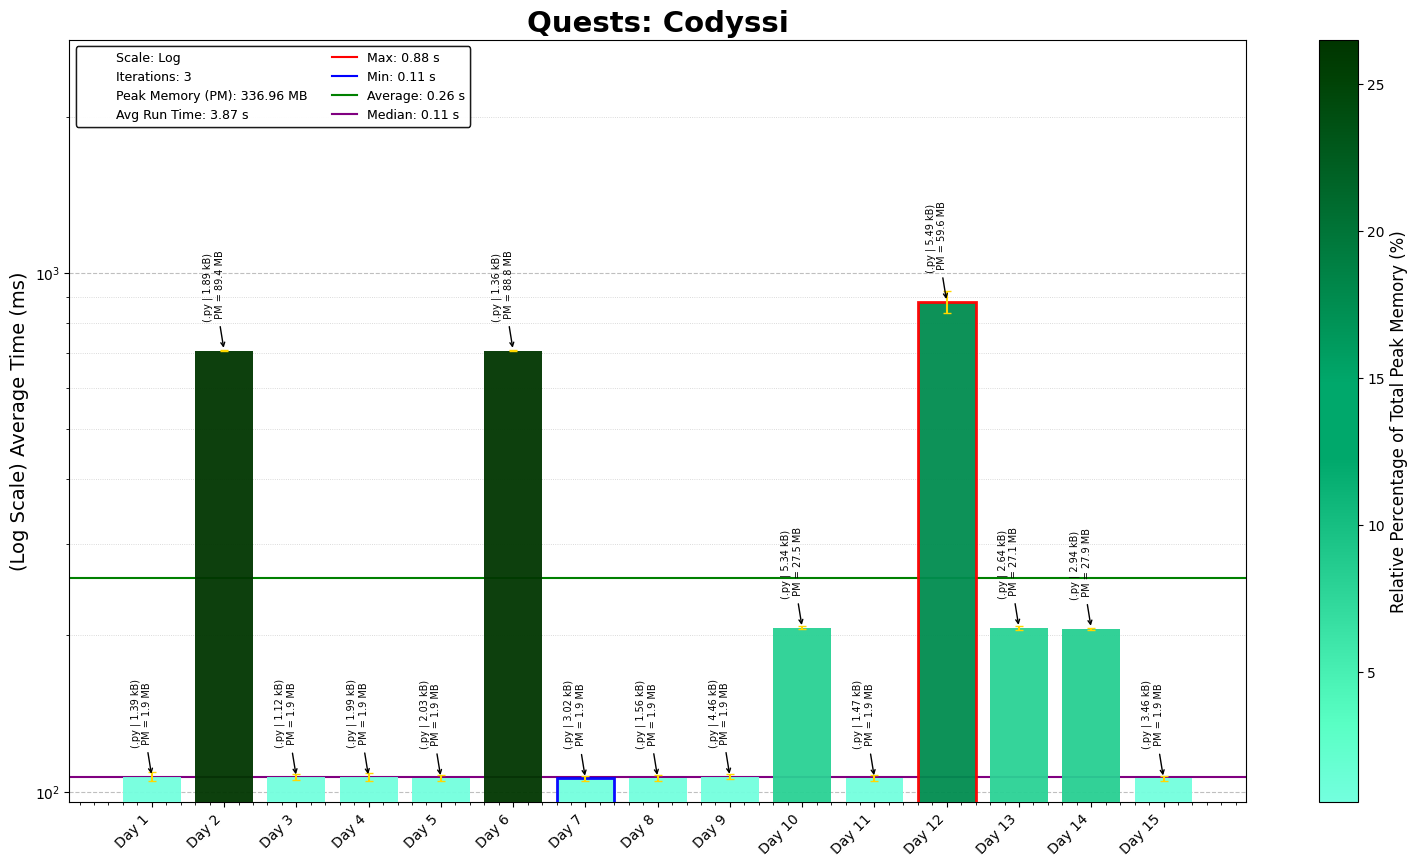
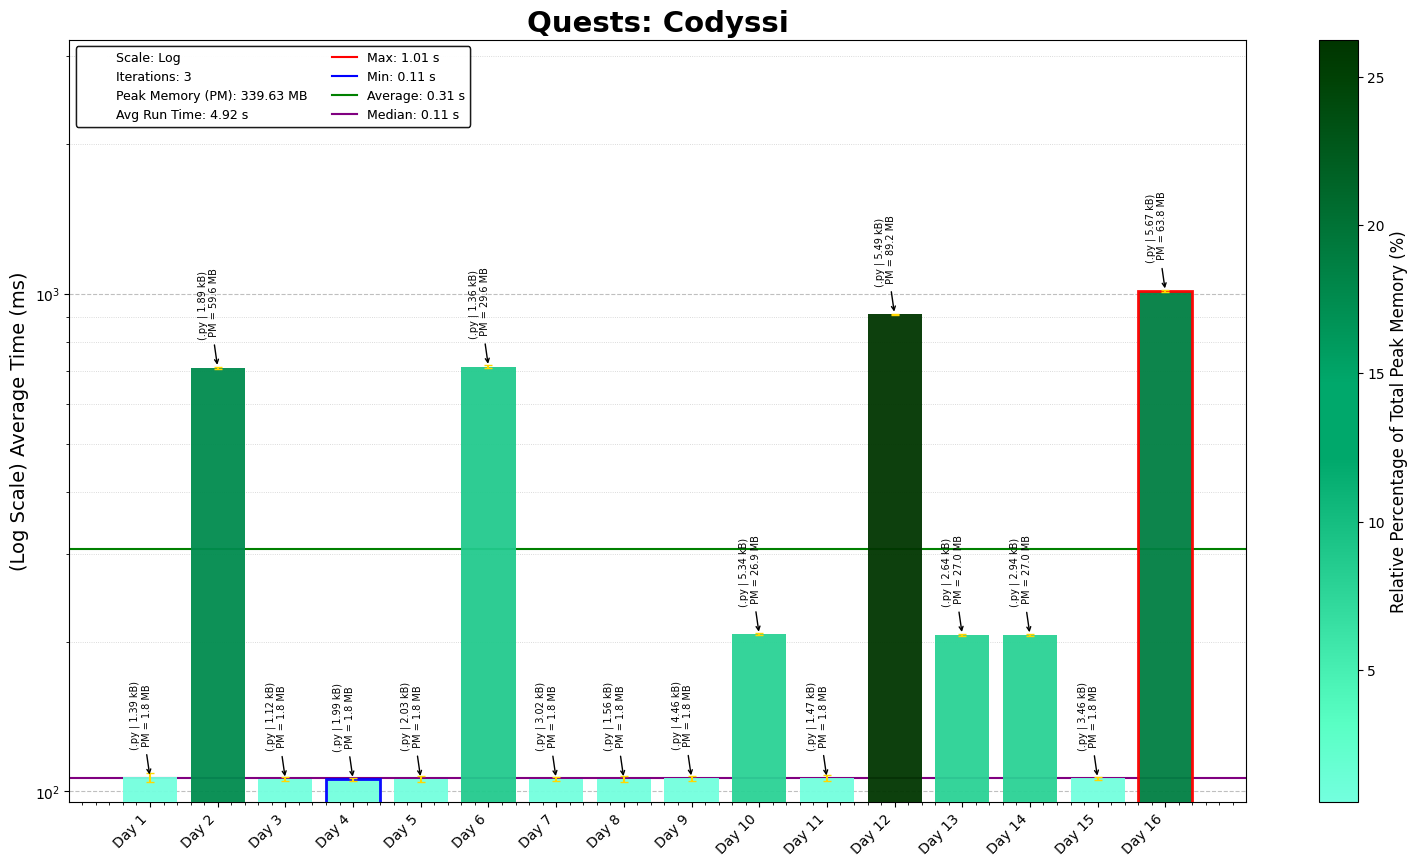
Codyssi Day 16 P1

diff --git a/Codyssi/2025/16/CodyssiDay16.py b/Codyssi/2025/16/CodyssiDay16.py
@@ -14,21 +14,25 @@ import matplotlib.pyplot as plt
 start_time = time.time()
 
 # Load the input data from the specified file path
-D16_file = "Day16_input1.txt"
+D16_file = "Day16_input.txt"
 D16_file_path = os.path.join(os.path.dirname(os.path.abspath(__file__)), D16_file)
 
 # Read and sort input data into a grid
 with open(D16_file_path) as file:
     input_data = file.read().strip().split('\n\n')
-    cube_faces = input_data[0].split('\n')
+    instructions = input_data[0].split('\n')
     directions = input_data[1].split('\n')[0]
 
 class MindCube:
     def __init__(self, cube_faces: list[str], size: tuple):
+        self.instructions = self.parse_input(cube_faces)
+        cube_faces = {}
+        for face in range(1, 6 + 1):
+            cube_faces[face] = {(row, col): 1
+                                for row in range(1, size[0] + 1)
+                                for col in range(1, size[1] + 1)}
+        self.cube_faces = cube_faces
         self.CUBE_SIZE = size
-        self.cube_face = self.parse_input(cube_faces)
-        self.base_cube = {(face, row, col): 1 for face in range(1, size[0] + 1)
-                        for row in range(size[1]) for col in range(size[2])}
 
     @staticmethod
     def parse_input(input_faces):
@@ -41,47 +45,90 @@ class MindCube:
                 cube_list.append((parts[0], int(parts[1]), int(parts[-1])))
         return cube_list
 
-    def get_adjacent_face(self, current: int, twist: str):
-        
-        faces_dict = {
-            1:{"L":5, "R":6, "U":4, "D":2},
-            2:{"L":5, "R":6, "U":1, "D":3},
-            3:{"L":5, "R":6, "U":2, "D":4},
-            4:{"L":5, "R":6, "U":3, "D":1},
-            5:{"L":3, "R":1, "U":4, "D":2},
-            6:{"L":1, "R":3, "U":4, "D":2},
+    @staticmethod
+    def check_value(base_value: int):
+        while base_value > 100:
+            base_value -= 100
+        while base_value < 0:
+            base_value += 100
+        return base_value
+
+    def get_adjacent_face(self, twist: str, cube: dict):
+        # Define face rotation orders for each twist direction
+        rotations = {
+            "L": ["C", "L", "O", "R"],
+            "R": ["C", "R", "O", "L"],
+            "U": ["C", "U", "O", "D"],
+            "D": ["C", "D", "O", "U"],
         }
-            #   1
-            #  526
-            #   3
-            #   4
 
-        new_face = faces_dict[current][twist]
-        return new_face
+        new_cube = cube.copy()
+        if twist in rotations:
+            keys = rotations[twist]
+            values = [cube[k] for k in keys]
+            # Rotate values one step to the left
+            for i, k in enumerate(keys):
+                new_cube[k] = values[(i + 1) % len(values)]
 
-    def perform_transformations(self, instructions):
-        current_face = 1
-        # for line in self.cube_face:
-        #     if line[0] == "FACE":
-        #         for row in range(self.CUBE_SIZE[1]):
-        #             for col in range(self.CUBE_SIZE[2]):
-        #                 self.base_cube[(current_face, row, col)] = line[1]
-        # print(self.base_cube)
-        for twist_dir in instructions:
-            twist_face = self.get_adjacent_face(current_face, twist_dir)
-            print(f"{twist_dir}: {current_face} -> {twist_face}")
-            current_face = twist_face
-        return len(self.base_cube)
+        return new_cube
 
-cubes = MindCube(cube_faces, (6, 80, 80))
+    def perform_transformations(self, twists):
+        cube_dict = {"C": 1, "L": 5, "R": 6, "U": 4, "D": 2, "O": 3}
+        current_face = cube_dict["C"]
+        absorptions = {}
+        cube_faces = self.cube_faces.copy()
+
+        for idx, instruc in enumerate(self.instructions):
+            face_data = cube_faces[current_face]
+            updated_face = face_data.copy()
+            op_type = instruc[0]
+
+            if op_type == "FACE":
+                delta = instruc[1]
+                for pos in face_data:
+                    updated_face[pos] = self.check_value(face_data[pos] + delta)
+                power = delta * self.CUBE_SIZE[0] * self.CUBE_SIZE[1]
+
+            elif op_type == "ROW":
+                row, delta = instruc[1], instruc[2]
+                for pos in face_data:
+                    if pos[0] == row:
+                        updated_face[pos] = self.check_value(face_data[pos] + delta)
+                power = delta * self.CUBE_SIZE[0]
+
+            elif op_type == "COL":
+                col, delta = instruc[1], instruc[2]
+                for pos in face_data:
+                    if pos[1] == col:
+                        updated_face[pos] = self.check_value(face_data[pos] + delta)
+                power = delta * self.CUBE_SIZE[1]
+
+            cube_faces[current_face] = updated_face
+            absorptions[current_face] = absorptions.get(current_face, 0) + power
+
+            # Apply twist if available
+            if idx < len(twists):
+                twist_dir = twists[idx]
+                cube_dict = self.get_adjacent_face(twist_dir, cube_dict)
+                current_face = cube_dict["C"]
+
+        return absorptions
+
+
+cubes = MindCube(instructions, (80, 80))
 
 absorption = cubes.perform_transformations(directions)
-print("Part 1:", absorption)
+print("Part 1:", np.prod(sorted(absorption.values(), reverse=True)[:2]))
 
 print(f"Execution Time = {time.time() - start_time:.5f}s")
 
-
-# The twist “L” is performed, the ‘current face’ changes to face 5. The orientation has changed due to the twist. At this stage, face 4 is above, face 1 is to the right, face 2 is below, and face 3 is to the left.
-# The twist “U” is performed, the ‘current face’ changes to face 4.
-# The twist “R” is performed, the ‘current face’ changes to face 1.
-# The twist “D” is performed, the ‘current face’ changes to face 5.
+# The first instruction, ‘FACE - VALUE 38’, is performed on face 1. On a 3 by 3 grid, this instruction has a power of 342. Hence, face 1 now has a total absorption of 342.
+# Then, the twist “L” is performed, and the ‘current face’ changes to face 5. The orientation has changed due to the twist. At this stage, face 4 is above, face 1 is to the right, face 2 is below, and face 3 is to the left.
+# The second instruction, ‘ROW 2 - VALUE 71’, has a power of 213 and is performed on face 5. Hence, face 5 now has a total absorption of 213.
+# The twist “U” is performed, and the ‘current face’ changes to face 4.
+# The third instruction, ‘ROW 1 - VALUE 57’, has a power of 171 and is performed on face 4. Hence, face 4 now has a total absorption of 171.
+# The twist “R” is performed, and the ‘current face’ changes to face 1.
+# The fourth instruction, ‘ROW 3 - VALUE 68’, has a power of 204 and is performed on face 1. Hence, face 1 now has a total absorption of 546.
+# The twist “D” is performed, and the ‘current face’ changes to face 5.
+# The final instruction, ‘COL 1 - VALUE 52’, has a power of 156 and is performed on face 5. Hence, face 5 now has a total absorption of 369.
+# After all the instructions were performed, the two highest total absorptions were 546 (face 1) and 369 (face 5). The product of these absorptions is 546 x 369 = 201474. Hence, the answer for this file is 201474.

diff --git a/Codyssi/2025/README_Codyssi2025.md b/Codyssi/2025/README_Codyssi2025.md
@@ -18,5 +18,5 @@
 13. **Problem 13 - Laestrygonian Guards**: Identifying paths between various destinations, and sorting based on lengths.
 14. **Problem 14 - Crucial Crafting**: Synthesising products based on different properties of materials, finding optimum combinations.
 15. **Problem 15 - Artifacts at Atlantis**: Build a network of connected artifacts, and navigate across the layers to achieve desired goals.
-16. **Problem 16 - Leviathan Mindscape**: Build a cube and then navigate it based on a series of instructions.
+16. **Problem 16 - Leviathan Mindscape**: Build a 3D cube, add values to its tiles and twist it.
 ---
